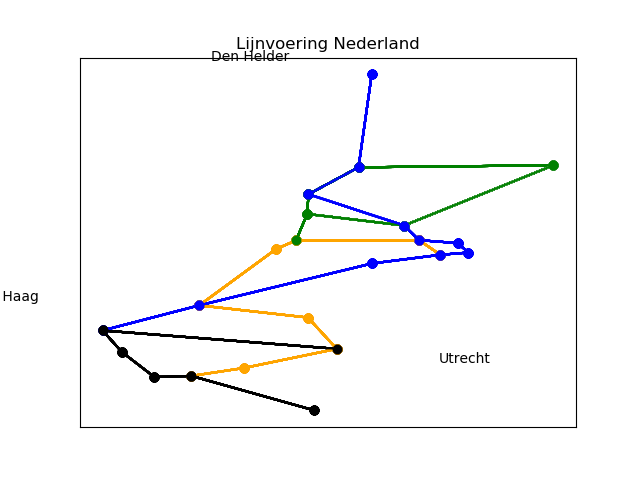
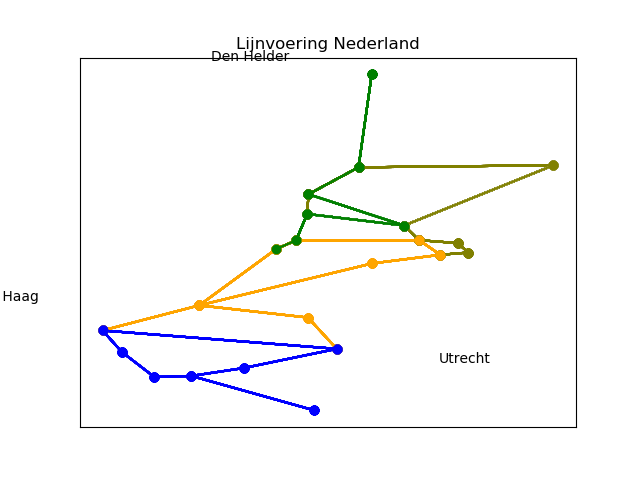
'hoopvanzegen'

diff --git a/RailNL/Code/test.py b/RailNL/Code/test.py
@@ -11,28 +11,30 @@ import functies.minuten
 import algo.hillclimber
 import inladen.inladen
 import time
-#import visualisatie.lijnvoeringtest
+import visualisatie.lijnvoeringtest
+
 
 # Houd de tijd bij. 
 start_time = time.clock()
 
 # Aantal iteraties van de hillclimber.
 
-<<<<<<< HEAD
-HILL = 10000
-=======
-HILL = 10000000
->>>>>>> 095222ce762fec434c83b515f4aa44d9d6615a69
+
+# AANTAL MINUTEN
+
+HILL = 2000
 
 # Aantal minuten.
-MAX = 180
+
+MAX = 120
+
 
 # Aantal trajecten.
-RANGE = 11
+RANGE = 4
  
 # Te gebruiken CSV's. 
-STATIONS = 'Data/StationsNationaal.csv'
-VERBINDINGEN = 'Data/ConnectiesNationaal.csv' 
+STATIONS = 'Data/StationsHolland.csv'
+VERBINDINGEN = 'Data/ConnectiesHolland.csv' 
 
 # Pak de gebruikte lists.
 stations = inladen.inladen.stations(STATIONS)
@@ -55,10 +57,17 @@ uithoeken = inladen.inladen.uithoeken(graph, stations)
 
 # Maak de eerste oplossing en indelen. 
 trajecten = algo.trajectmaker.traject_maker(RANGE, MAX, stations, verbindingen, uithoeken, graph, TOTAAL_SPOREN, TOTAAL_STATIONS)
+
 alle_tijdsduur_oud = trajecten[0]
 alle_trajecten_oud = trajecten[1]
 sporen_oud = trajecten[2]
 trajecten_algemeen_oud = trajecten[3]
+
+
+trajecten = functies.opschonen.opschonen(alle_trajecten_oud, alle_tijdsduur_oud,  verbindingen)
+
+alle_trajecten_oud = trajecten[0] 
+alle_tijdsduur_oud = trajecten[1] 
 
 # Bereken de score.
 totale_tijdsduur_oud = functies.minuten.minuten(alle_tijdsduur_oud)
@@ -73,7 +82,11 @@ alle_tijdsduur = resultaat[1]
 alle_trajecten = resultaat[2]
 sporen = resultaat[3]
 trajecten_algemeen = resultaat[4]
+
+
 totale_tijdsduur = (functies.minuten.minuten(alle_tijdsduur))
+
+
 
 
 # Deze print statements nog verwijderen. 
@@ -82,6 +95,7 @@ for i in range (len(alle_trajecten)):
     print()
     print("TRAJECT", i)
     print(alle_trajecten[i])
+    print("AANTAL GEBRUIKTE VERBINDINGEN::", len(alle_trajecten[i])-1)
     print(alle_tijdsduur[i])
     
 print()
@@ -97,14 +111,10 @@ print("AANTAL SPOREN:: ", len(sporen))
 print("AANTAL STATIONS:: ", len(trajecten_algemeen))
 print("TOTAAL AANTAL MINUTEN::", totale_tijdsduur)
 print()
-print(time.clock() - start_time, "seconds")
+print(time.clock() - start_time, "seconden")
 
 
+visualisatie.lijnvoeringtest.visualisatie(alle_trajecten, STATIONS, VERBINDINGEN)
 
-#start_time = time.clock()
-
-#visualisatie.lijnvoeringtest.visualisatie(alle_trajecten, STATIONS, VERBINDINGEN)
-
-#print(time.clock() - start_time, "seconds")
 
 

diff --git a/RailNL/Code/functies/functies.py b/RailNL/Code/functies/functies.py
@@ -57,7 +57,7 @@ class Trein(object):
             sporen.append(verbinding1)
         
         
-<<<<<<< HEAD
+
     def opties_randomconstr(self, sporen, graph, trajecten_algemeen, huidig_station):
         
         # Lege lijsten om stations aan toe te voegen. 
@@ -189,12 +189,9 @@ class Trein(object):
         
     # Random kiezen, nog te maken!
     def opties_random(self, sporen, graph, trajecten_algemeen, huidig_station):
-    
-=======
-    def opties1(self, sporen, graph, trajecten_algemeen, huidig_station):
-        """" Deze functie kiest het traject random"""
         
->>>>>>> 6bf4bcbc60c8e36b4f657473612c4599da04c172
+        
+
         richtingen = graph[huidig_station]
         
         i = randint(0, len(richtingen) -1)
@@ -209,6 +206,8 @@ class Trein(object):
         return beste_station, beste_tijd
         
 
+        
+        
     def opties_farest(self, sporen, graph, trajecten_algemeen, huidig_station):
         
         # Lege lijsten om stations aan toe te voegen. 
@@ -249,7 +248,7 @@ class Trein(object):
                     beste_station = row[0][0] 
     
                 
-<<<<<<< HEAD
+
             # Voeg best gekozen station toe aan trajecten.     
             trajecten_algemeen.append(beste_station)
             return beste_station, beste_tijd
@@ -299,12 +298,6 @@ class Trein(object):
          
     # Deze functie maakt de beslissing welk spoor er wordt genomen.  
     def opties_nearest(self, sporen, graph, trajecten_algemeen, huidig_station):
-    
-        # Lege lijsten om stations aan toe te voegen. 
-=======
-        print(richtingen)
-          
-    def opties(self, sporen, graph, trajecten_algemeen, huidig_station):
         """
         Deze functie maakt de beslissing welk spoor er wordt genomen. 
         
@@ -318,7 +311,6 @@ class Trein(object):
         De functie returned de beste tijd en beste station. 
         """
 
->>>>>>> 6bf4bcbc60c8e36b4f657473612c4599da04c172
         richtingen = graph[huidig_station]
         stations_niet_aangetikt = []
         stations_wel_aangetikt = []
@@ -400,10 +392,8 @@ class Trein(object):
  
  
     def pop(self, trajecten_algemeen, sporen):
-      """
-      Deze functie verwijdert de laatste verbinding uit de lijst trajecten, en 
-      uit traject wanneer de tijd is overschreden.
-      """
+      
+
      
         a = self.traject[-1]
         b = self.traject[-2]

diff --git a/RailNL/Code/algo/trajectmaker.py b/RailNL/Code/algo/trajectmaker.py
@@ -8,11 +8,10 @@
 import functies.functies
 import algo.start
 
-<<<<<<< HEAD
+
 
 # Deze functie bepaald het traject. 
-=======
->>>>>>> 6bf4bcbc60c8e36b4f657473612c4599da04c172
+
 def traject_maker(RANGE, MAX, stations, verbindingen, uithoeken, graph, TOTAAL_SPOREN, TOTAAL_STATIONS):
     """
     Deze functie bepaalt welk traject er wordt gereden. 
@@ -44,15 +43,9 @@ def traject_maker(RANGE, MAX, stations, verbindingen, uithoeken, graph, TOTAAL_S
 
             else:
                 # Beste optie kiezen aan de hand van de mogelijkheden.
-<<<<<<< HEAD
-                beste_optie = trein.opties_farest(sporen, graph, trajecten_algemeen, trein.eindstation[0])
-                
-                #Spoor toevoegen.
-=======
-                beste_optie = trein.opties(sporen, graph, trajecten_algemeen, trein.eindstation[0])
+                beste_optie = trein.opties_nearest(sporen, graph, trajecten_algemeen, trein.eindstation[0])
                 
                 # Spoor toevoegen.
->>>>>>> 6bf4bcbc60c8e36b4f657473612c4599da04c172
                 trein.spoor_toevoegen(sporen, trein.eindstation[0], beste_optie)
                 
                 # Trein verplaatsen naar volgend spoor.

diff --git a/RailNL/Code/algo/hillclimber.py b/RailNL/Code/algo/hillclimber.py
@@ -24,10 +24,8 @@ def hillclimber(score1, alle_trajecten1, alle_tijdsduur1, HILL, RANGE, MAX, stat
     
     for j in range (HILL):
         
-<<<<<<< HEAD
-        
-=======
->>>>>>> 6bf4bcbc60c8e36b4f657473612c4599da04c172
+
+
         alle_trajecten = []
         trajecten_algemeen =[] 
         sporen = [] 
@@ -49,13 +47,10 @@ def hillclimber(score1, alle_trajecten1, alle_tijdsduur1, HILL, RANGE, MAX, stat
                 else:
 
                     # Beste optie kiezen aan de hand van de mogelijkheden.
-<<<<<<< HEAD
+
                     beste_optie = trein.opties_nearest(sporen, graph, trajecten_algemeen, trein.eindstation[0])
                     #Spoor toevoegen.
-=======
-                    beste_optie = trein.opties(sporen, graph, trajecten_algemeen, trein.eindstation[0])
-                    # Spoor toevoegen.
->>>>>>> 6bf4bcbc60c8e36b4f657473612c4599da04c172
+
                     trein.spoor_toevoegen(sporen, trein.eindstation[0], beste_optie)
                     # Trein verplaatsen naar volgend spoor.
                     trein.volgend_spoor(beste_optie[0])

diff --git a/RailNL/Code/main.py b/RailNL/Code/main.py
@@ -19,29 +19,18 @@ start_time = time.clock()
 
 # Aantal iteraties van de hillclimber.
 
-<<<<<<< HEAD
-HILL = 10000
-
-# Aantal minuten.
-MAX = 120
-=======
-
-
-
-
-
 
 # AANTAL MINUTEN
 
-HILL = 20000
+HILL = 2000
 
 # Aantal minuten.
 
-MAX = 180
->>>>>>> 6bf4bcbc60c8e36b4f657473612c4599da04c172
+MAX = 120
+
 
 # Aantal trajecten.
-RANGE = 5
+RANGE = 4
  
 # Te gebruiken CSV's. 
 STATIONS = 'Data/StationsHolland.csv'
@@ -93,6 +82,8 @@ alle_tijdsduur = resultaat[1]
 alle_trajecten = resultaat[2]
 sporen = resultaat[3]
 trajecten_algemeen = resultaat[4]
+
+
 totale_tijdsduur = (functies.minuten.minuten(alle_tijdsduur))
 
 
@@ -123,7 +114,7 @@ print()
 print(time.clock() - start_time, "seconden")
 
 
-visualisatie.lijnvoeringtest.visualisatie([[]], STATIONS, VERBINDINGEN)
+visualisatie.lijnvoeringtest.visualisatie(alle_trajecten, STATIONS, VERBINDINGEN)
 
 
 
